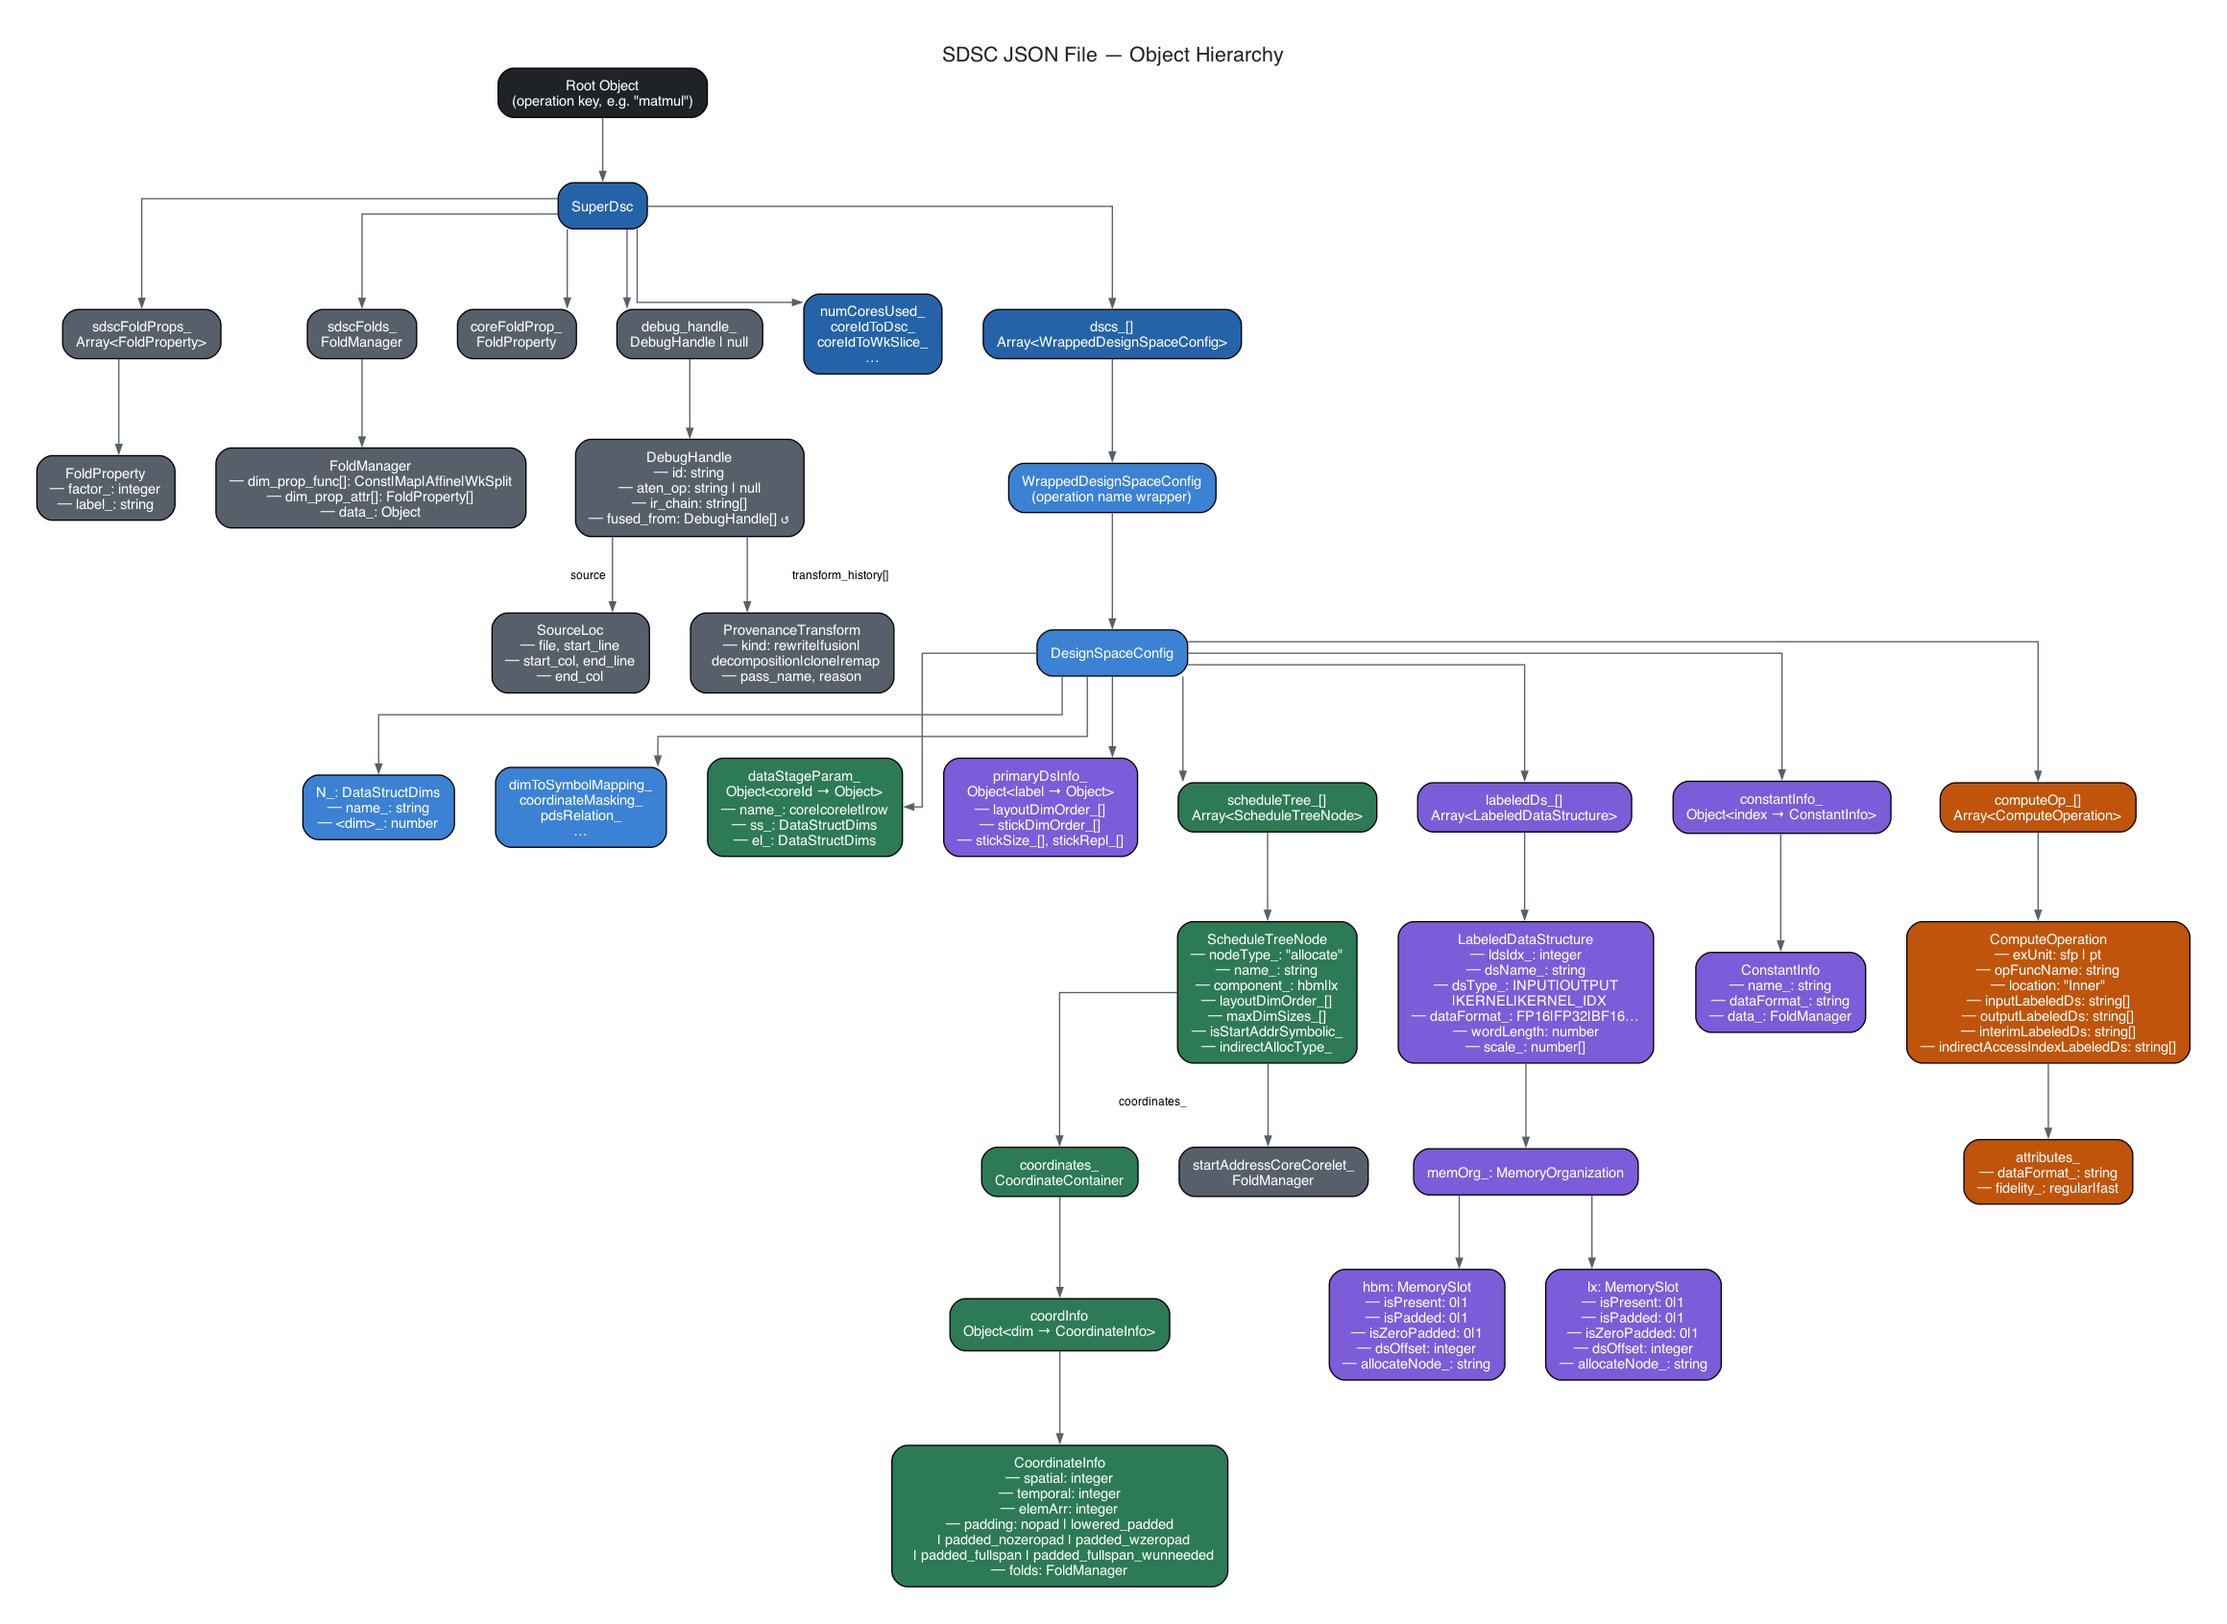
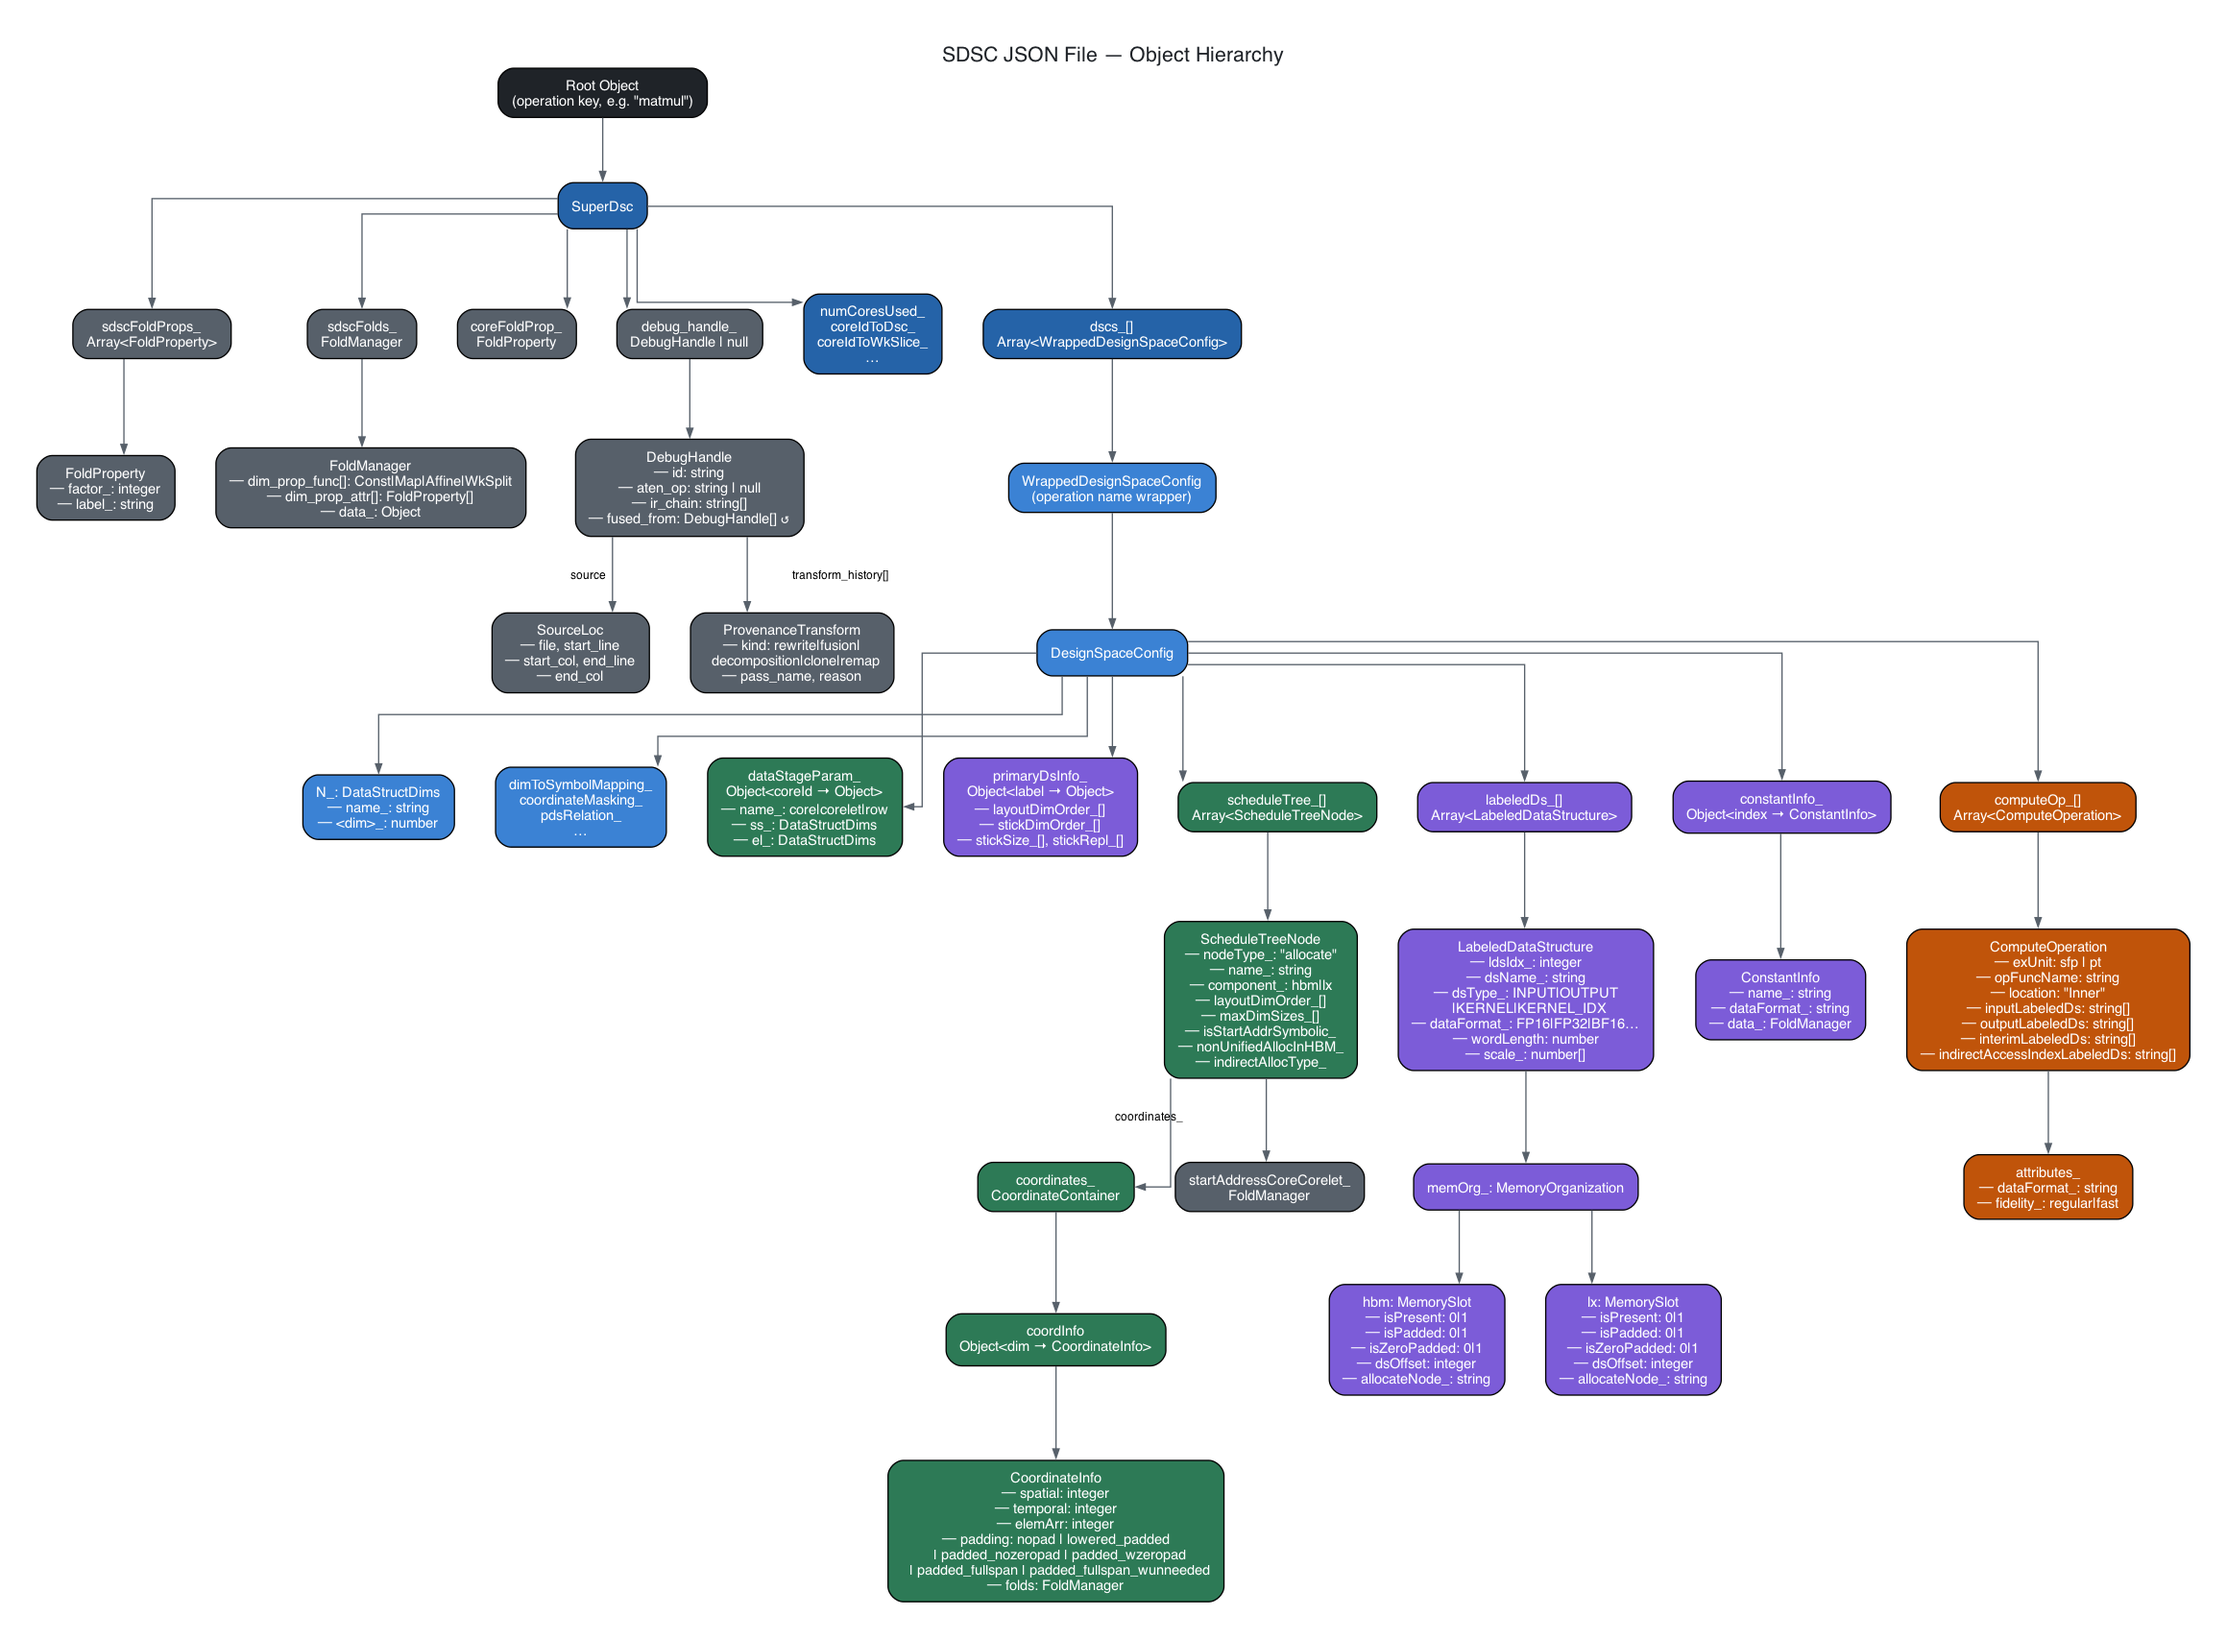
Add nonUnifiedAllocInHBM_ to ScheduleTreeNode in schema and docs

diff --git a/0248-SdscBundleSpec/sdsc_BUNDLE_APIs/figures/gen_hierarchy.py b/0248-SdscBundleSpec/sdsc_BUNDLE_APIs/figures/gen_hierarchy.py
@@ -107,7 +107,7 @@ for ch in ("N_", "DIM2S", "DSP", "PDS", "ST", "LDS", "CI", "COP"):
     edge(g, "CONFIG", ch)
 
 # ── ScheduleTreeNode ──────────────────────────────────────────────────────────
-node(g, "STN",   "ScheduleTreeNode\n─ nodeType_: \"allocate\"\n─ name_: string\n─ component_: hbm|lx\n─ layoutDimOrder_[]\n─ maxDimSizes_[]\n─ isStartAddrSymbolic_\n─ indirectAllocType_",
+node(g, "STN",   "ScheduleTreeNode\n─ nodeType_: \"allocate\"\n─ name_: string\n─ component_: hbm|lx\n─ layoutDimOrder_[]\n─ maxDimSizes_[]\n─ isStartAddrSymbolic_\n─ nonUnifiedAllocInHBM_\n─ indirectAllocType_",
      C_SCHED, C_WHITE)
 node(g, "COORD", "coordinates_\nCoordinateContainer",                            C_SCHED, C_WHITE)
 node(g, "CINFO_MAP", "coordInfo\nObject<dim → CoordinateInfo>",                  C_SCHED, C_WHITE)

diff --git a/0248-SdscBundleSpec/sdsc_BUNDLE_APIs/scheduletreenode.md b/0248-SdscBundleSpec/sdsc_BUNDLE_APIs/scheduletreenode.md
@@ -41,6 +41,7 @@ in `startAddressCoreCorelet_`. Spatial tiling coordinates are captured in a
   "layoutDimOrder_":           ["<dim>", ...],
   "maxDimSizes_":              [<int>, ...],
   "isStartAddrSymbolic_":      <bool | 0 | 1>,
+  "nonUnifiedAllocInHBM_":     <bool | 0 | 1>,
   "startAddressCoreCorelet_":  <FoldManager>,
   "backGapCore_":              { "<dim>": { "<coreId>": "<gapStr>" } },
   "padding_":                  <object>,
@@ -63,6 +64,7 @@ in `startAddressCoreCorelet_`. Spatial tiling coordinates are captured in a
 | `layoutDimOrder_` | array of string | No | Dimension names declared in `DataStructDims` | Physical memory layout order, outermost first. Tensor layout is specified from inner to outer. Overrides the global `primaryDsInfo_` order when present. |
 | `maxDimSizes_` | array of integer | No | Parallel to `layoutDimOrder_` | Maximum element count per dimension. No minimum is enforced; `-1` is the typical value when the size is not constrained. |
 | `isStartAddrSymbolic_` | boolean or integer (0/1) | No | `true`/`false` or `1`/`0` | When true (`1`), the `data_` values in `startAddressCoreCorelet_` are symbolic identifiers rather than concrete byte offsets. See [`startAddressCoreCorelet_`](#startaddresscorecorelet_) below. |
+| `nonUnifiedAllocInHBM_` | boolean or integer (0/1) | No | `true`/`false` or `1`/`0` | Layout style for HBM allocations. `false` (the default) indicates unified layout: the tensor lives in HBM as a single tensor covering all cores sized by `N_`, and each core's data is a sub-rectangle reached from a common base address. `true` indicates non-unified layout: data each core needs is stored as an independent smaller tensor sized by the per-core `"core"` datastage, placed independently in HBM (not necessarily contiguous, no common stride). Non-unified implies per-core start addresses in `startAddressCoreCorelet_` (core fold as `Map`) and LX-like core coordinates. Ignored when `component_` is not `"hbm"`. See [`nonUnifiedAllocInHBM_`](#nonunifiedallocinhbm_) below. |
 | `startAddressCoreCorelet_` | [FoldManager](foldmanager.md) | No | — | Per-core / per-corelet start address for this allocation, expressed as a FoldManager. See [`startAddressCoreCorelet_`](#startaddresscorecorelet_) below. |
 | `backGapCore_` | `map<dim, map<coreId, string>>` | No | Written conditionally when `tensor.backGap` is true | Back-gap size (in elements) per dimension per core. Outer key is a dimension name (`^[A-Za-z_][A-Za-z0-9_]*$`); inner key is a core ID (`^-?[0-9]+$`, where `"-1"` denotes HBM); value is the gap size as a decimal string. |
 | `padding_` | object | No | — | Backend-written padding metadata for this allocation. This is a free object written by the compiler; the per-dimension padding enum (`"nopad"`, `"lowered_padded"`, `"padded_nozeropad"`, `"padded_wzeropad"`, `"padded_fullspan"`, `"padded_fullspan_wunneeded"`) lives on `CoordinateInfo.padding` inside `coordinates_` — see the [CoordinateInfo fields](#coordinateinfo-fields) table below and [Padding](padding.md). |
@@ -70,6 +72,17 @@ in `startAddressCoreCorelet_`. Spatial tiling coordinates are captured in a
 | `relatedIndirectAccessAlloc_` | string | No | Must match another node's `name_`; non-empty only when `indirectAllocType_` is `"index_tensor"` | Name of the related allocation node that provides actual data for the indirect reference. |
 | `indexTensorType_` | string enum | No | `"index"` or `"address"`; only present when `indirectAllocType_` is `"index_tensor"` | How the index tensor's elements are interpreted: `"index"` = element indices; `"address"` = precomputed byte addresses. |
 | `coordinates_` | [CoordinateContainer](coordinatecontainer.md) | No | — | Spatial tiling coordinates for this allocation. Groups per-dimension [`CoordinateInfo`](coordinateinfo.md) alongside the `coreIdToWkSlice_` mapping. See [`coordinates_`](#coordinates_) below. |
+
+## nonUnifiedAllocInHBM_
+
+`nonUnifiedAllocInHBM_` controls how an HBM tensor allocation is partitioned and laid out:
+
+- **Unified (`false` / `0`, default)**: The tensor lives in HBM as a single unified tensor covering all cores, sized by `N_`. Each core accesses its slice as a sub-rectangle of this global tensor starting from a common base address.
+- **Non-unified (`true` / `1`)**: The HBM data each core needs is stored as an independent, smaller tensor sized by the per-core `"core"` datastage. These per-core tensors are placed independently in HBM (they do not have to be contiguous and share no common stride), so no unified tensor exists. Non-unified layout implies:
+  - Separate start addresses per core in `startAddressCoreCorelet_` (with `Map` on the core dimension).
+  - LX-like core fold in the allocation's `coordinates_`.
+
+This field is ignored when `component_` is not `"hbm"`.
 
 ## startAddressCoreCorelet_
 

diff --git a/0248-SdscBundleSpec/sdsc_BUNDLE_APIs/json-schema.md b/0248-SdscBundleSpec/sdsc_BUNDLE_APIs/json-schema.md
@@ -26,7 +26,7 @@ pages and in the [Validation section of SDSC JSON API](SDSC-json-api.md#validati
 | 1.1.0 | 2026-05-XX | Added symbolic-dimension support: `SymbolicDimInfo`, `DimPaddingSizes`, `dimToSymbolMapping_`, `isStartAddrSymbolic_`, and related `SuperDsc` symbol fields |
 | 1.1.1 | 2026-07-07 | Allow `isStartAddrSymbolic_` to accept integer `0`/`1` in addition to boolean |
 | 1.1.2 | 2026-07-07 | Allow `DataStructDims` dimension fields to accept empty object `{}` |
-| 1.2.0 | 2026-07-08 | Sync with deeptools-schema.json v1.3.0: explicit dim fields on `DataStructDims`, corrected `DimPaddingSizes` field names, corrected `SymbolicDimInfo.maxSize_`, added `name_` to per-stage `dataStageParam_` object |
+| 1.2.0 | 2026-07-08 | Sync with deeptools-schema.json v1.3.0: explicit dim fields on `DataStructDims`, corrected `DimPaddingSizes` field names, corrected `SymbolicDimInfo.maxSize_`, added `name_` to per-stage `dataStageParam_` object, added `nonUnifiedAllocInHBM_` to `ScheduleTreeNode` |
 
 ---
 

diff --git a/0248-SdscBundleSpec/sdsc_BUNDLE_APIs/JSON-object-Hierarchy.md b/0248-SdscBundleSpec/sdsc_BUNDLE_APIs/JSON-object-Hierarchy.md
@@ -90,6 +90,7 @@ Root Object (Dynamic operation name key, e.g., "exp", "matmul")
                     │         ├─── layoutDimOrder_: Array<string>
                     │         ├─── maxDimSizes_: Array<integer>
                     │         ├─── isStartAddrSymbolic_: boolean | 0 | 1
+                    │         ├─── nonUnifiedAllocInHBM_: boolean | 0 | 1
                     │         ├─── startAddressCoreCorelet_: FoldManager
                     │         ├─── backGapCore_: Object
                     │         ├─── padding_: Object
